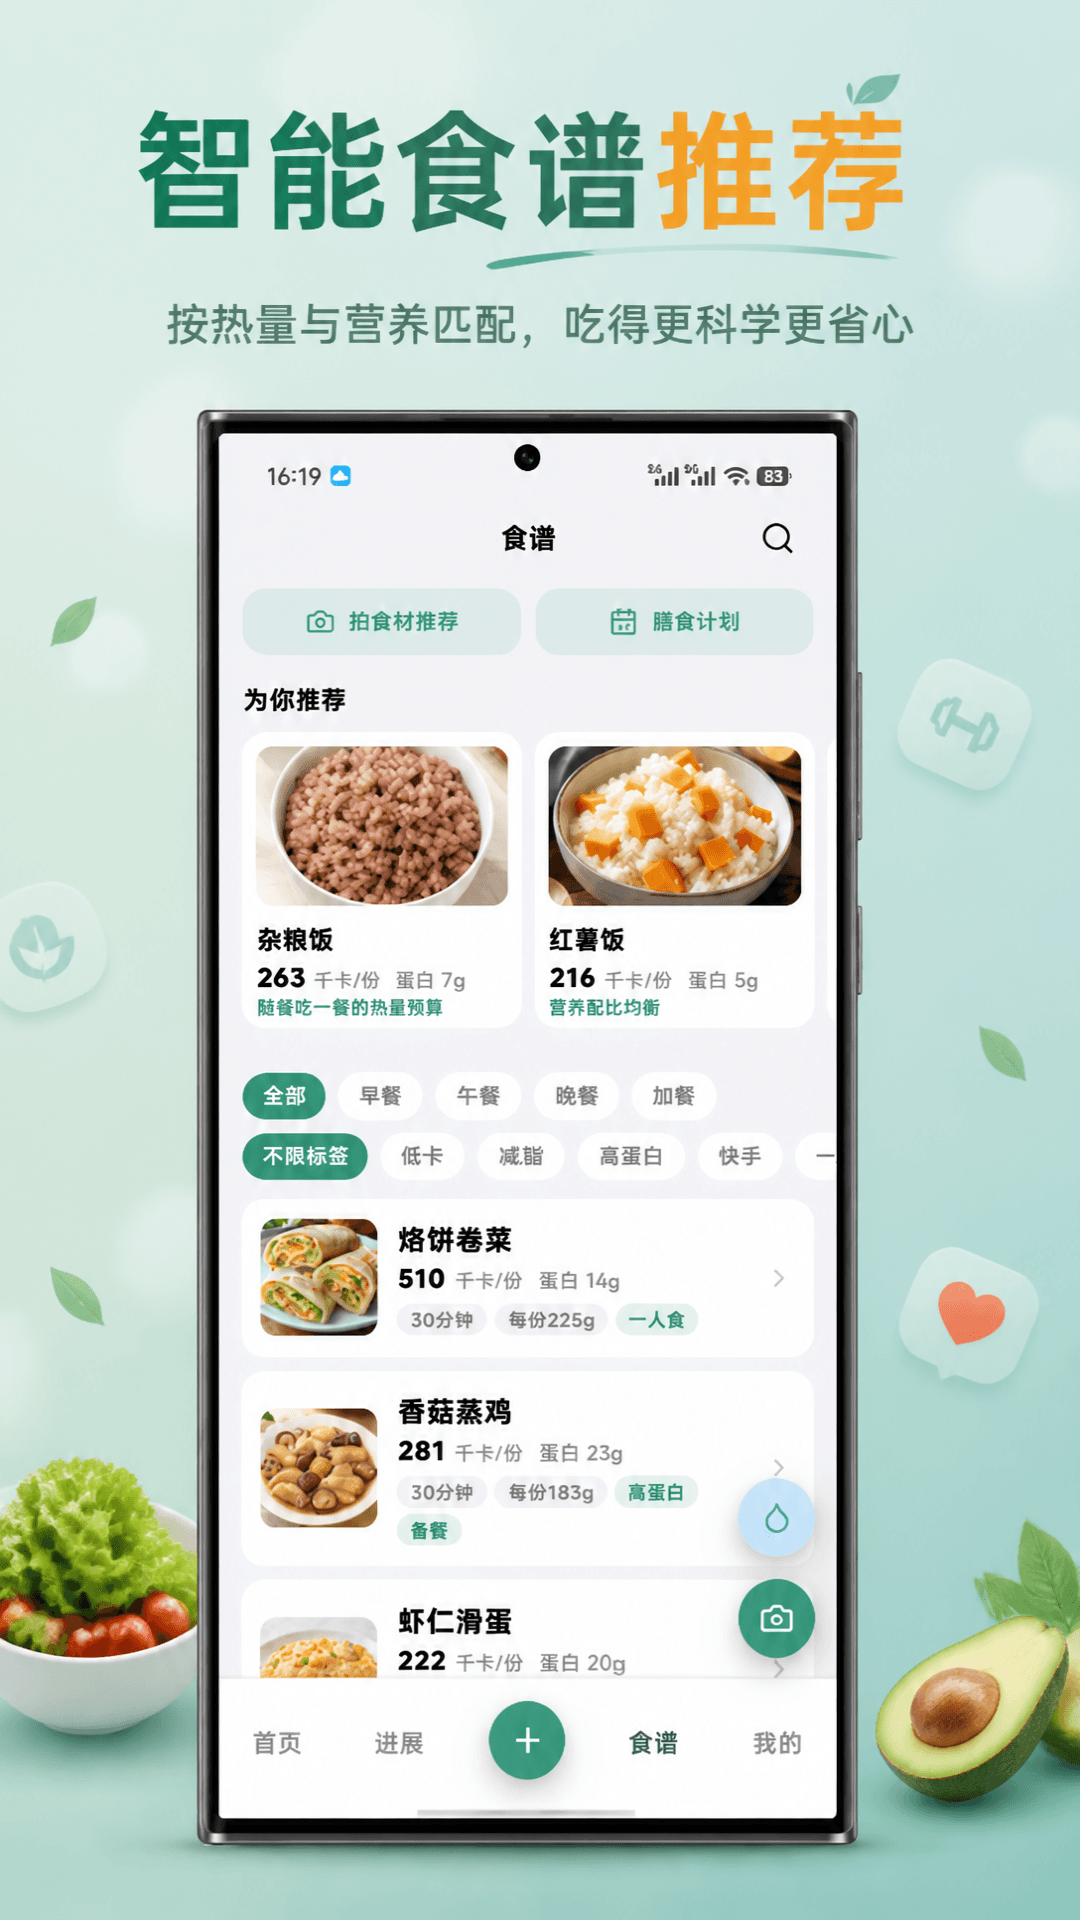
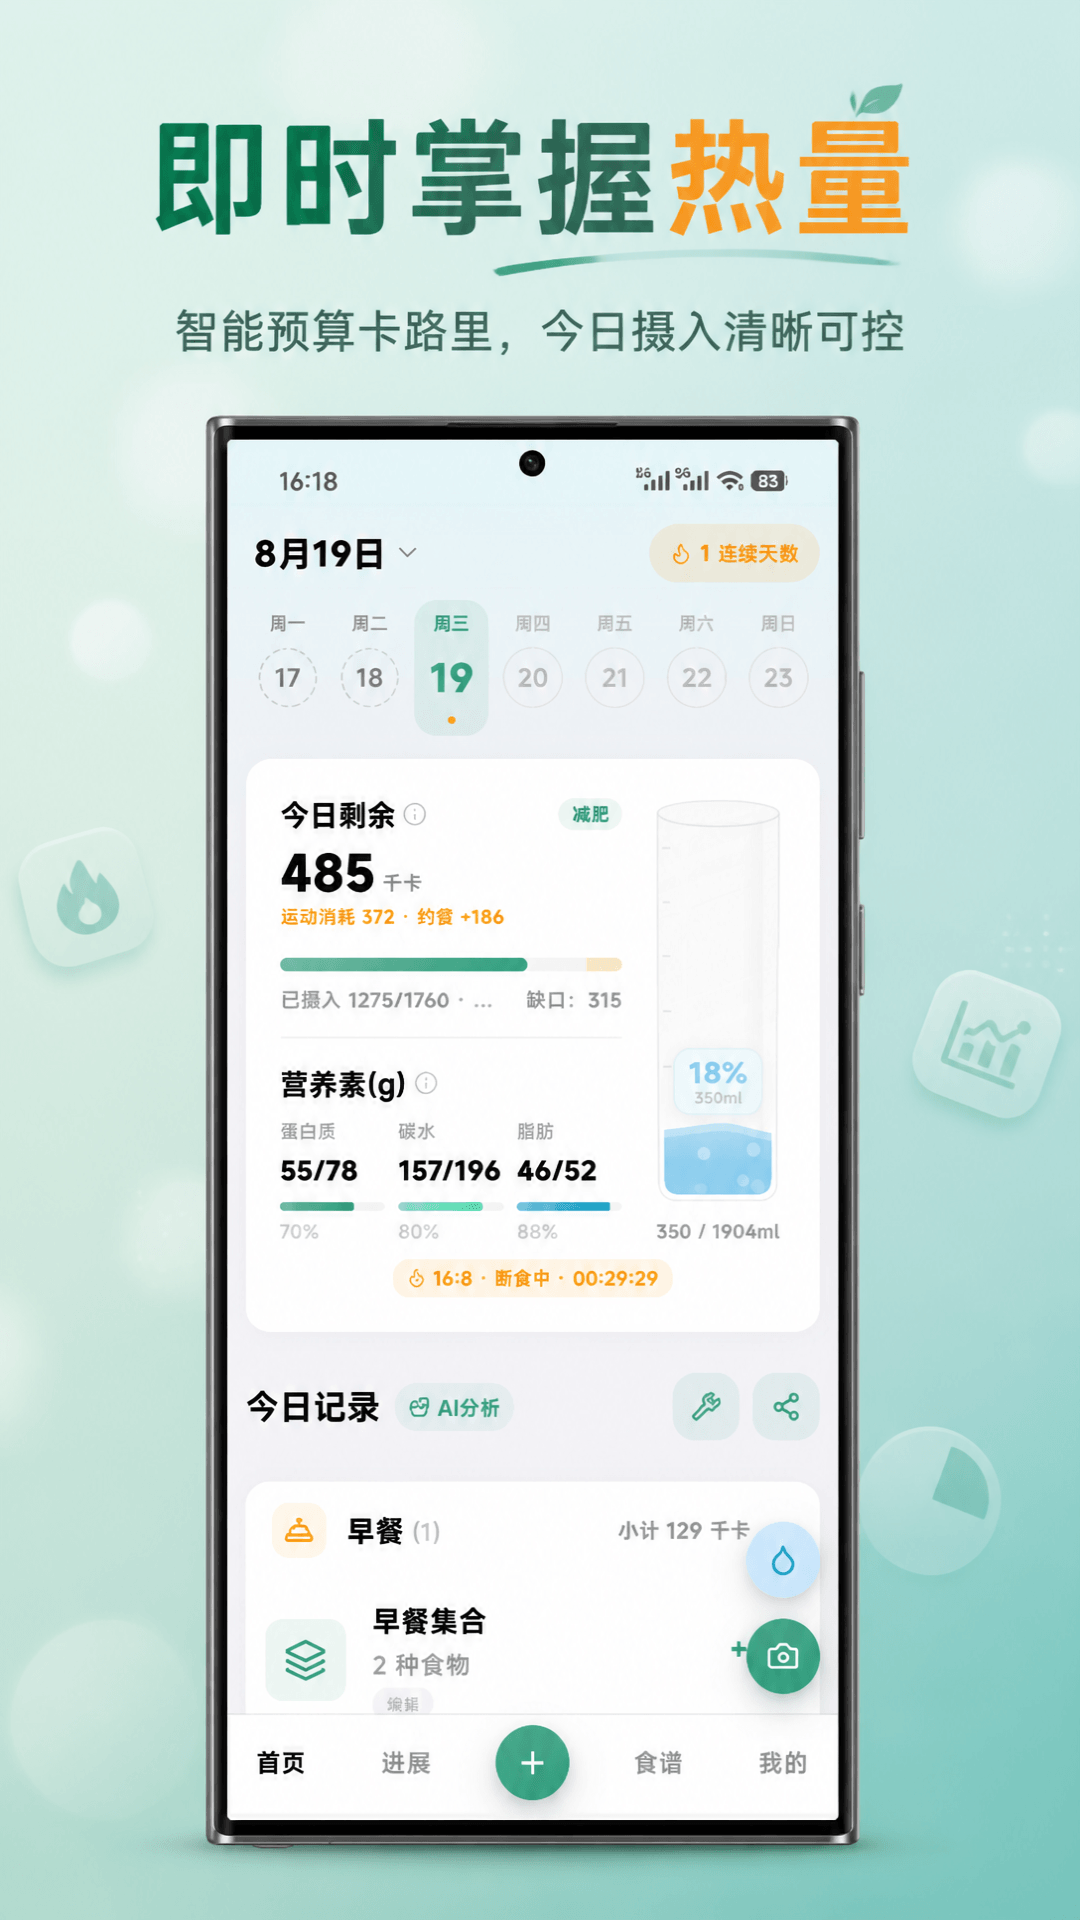
补充吃有数

diff --git a/1-吃有数/README.md b/1-吃有数/README.md
@@ -41,6 +41,8 @@
 
 Android、iOS、HarmonyOS
 
+可直接在手机应用商店搜 **吃有数** 下载安装。
+
 ### 收费方式：
 
 - 注册即送 3 天会员
